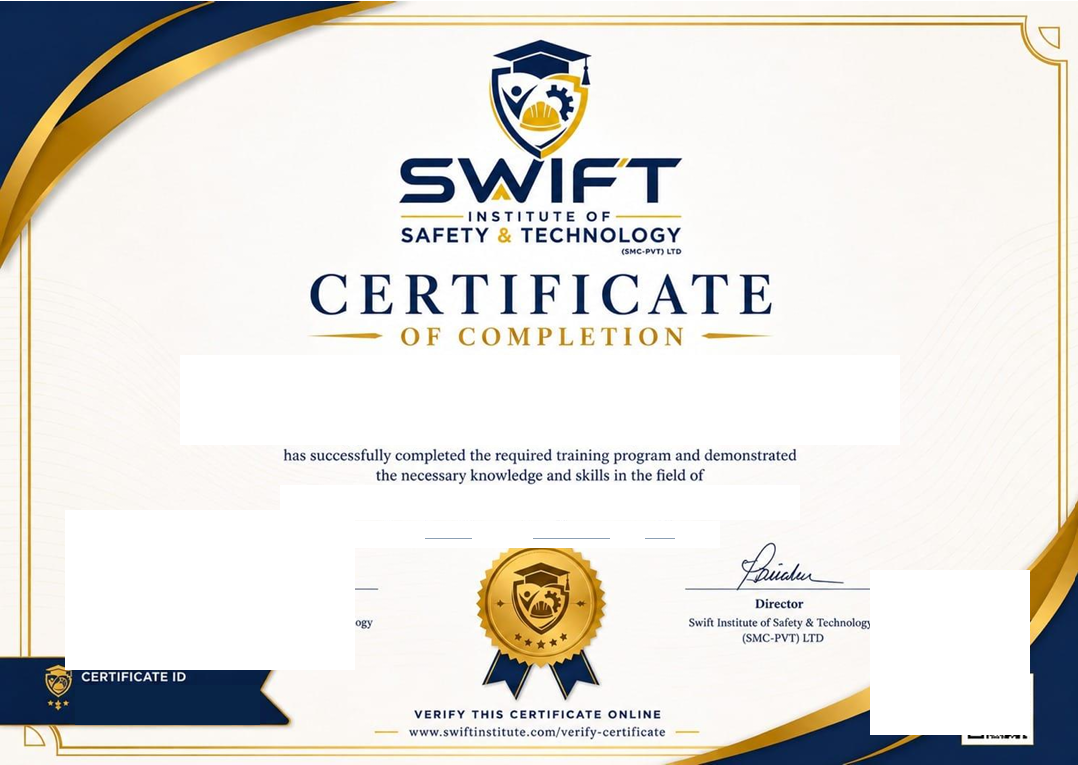
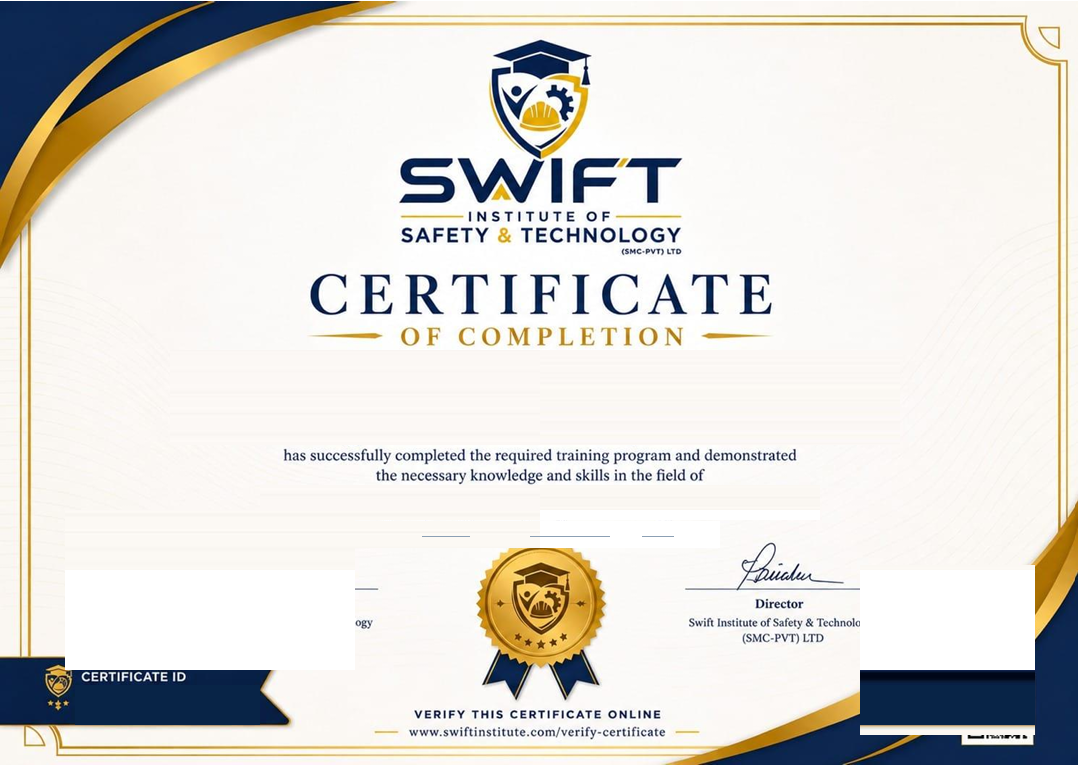
Eliminate white box backgrounds by interpolating parchment paper colors, reduce QR white container box to match QR size, fit Summary Box tightly to content, and position date text above paper baseline

Changed region(s): [[0.7959, 0.7516, 0.9796, 0.9621]]

diff --git a/client/src/pages/student/MyCertificates.jsx b/client/src/pages/student/MyCertificates.jsx
@@ -13,27 +13,27 @@ const CERT_LAYOUT = {
   baseHeight: 765,
   name: {
     left: 0.150,     // 162 / 1078
-    top: 0.482,      // 368 / 765
+    top: 0.480,      // 367 / 765
     width: 0.700,    // 754 / 1078
     height: 0.075,   // 57 / 765
   },
   course: {
     left: 0.150,     // 162 / 1078
-    top: 0.612,      // 468 / 765
+    top: 0.610,      // 467 / 765
     width: 0.700,    // 754 / 1078
     height: 0.052,   // 40 / 765
   },
   date: {
-    top: 0.688,      // 526 / 765
+    top: 0.675,      // 516 / 765 (positioned neatly ABOVE baseline line)
     height: 0.035,   // 27 / 765
-    day: { left: 0.394, width: 0.044 },    // 425px..472px (center ~448px)
-    month: { left: 0.494, width: 0.072 },  // 533px..610px (center ~571px)
-    year: { left: 0.598, width: 0.028 },   // 645px..675px (center ~660px)
+    day: { left: 0.392, width: 0.048 },    // 422px..474px (center ~448px)
+    month: { left: 0.492, width: 0.076 },  // 530px..612px (center ~571px)
+    year: { left: 0.596, width: 0.030 },   // 642px..674px (center ~658px)
   },
   summary: {
-    left: 0.082,     // 88 / 1078 (sits safely inside left gold border)
-    top: 0.685,      // 524 / 765
-    width: 0.195,    // 210 / 1078 (compact width, clear of center gold medal)
+    left: 0.082,     // 88 / 1078 (compact width, clear of left gold border)
+    top: 0.682,      // 522 / 765
+    width: 0.195,    // 210 / 1078 (tight box wrapping summary text)
     height: 0.145,   // 110 / 765
   },
   certificateId: {
@@ -43,9 +43,9 @@ const CERT_LAYOUT = {
     height: 0.042,   // 32 / 765
   },
   qr: {
-    right: 0.052,    // 56 / 1078 (small & compact inside bottom right corner)
-    bottom: 0.065,   // 50 / 765
-    width: 0.052,    // 56 / 1078 (small 56px square)
+    right: 0.058,    // 62 / 1078 (tight 64px box matching QR code size)
+    bottom: 0.072,   // 55 / 765
+    width: 0.059,    // 64 / 1078 (64px square container)
   },
 };
 
@@ -113,7 +113,7 @@ function CertificateDocument({ cert, id }) {
         @import url('https://fonts.googleapis.com/css2?family=Great+Vibes&display=swap');
       `}</style>
 
-      {/* Pristine Clean Template Image */}
+      {/* Pristine Seamless Parchment Template Image */}
       <img
         src={CERT_TEMPLATE}
         alt="Certificate template"
@@ -166,7 +166,7 @@ function CertificateDocument({ cert, id }) {
         </p>
       </div>
 
-      {/* Date Day */}
+      {/* Date Day - Positioned ABOVE baseline */}
       <div
         className="absolute text-center flex items-center justify-center bg-transparent"
         style={{
@@ -180,14 +180,14 @@ function CertificateDocument({ cert, id }) {
           className="text-[#082447] leading-none font-bold"
           style={{ 
             fontFamily: "'Great Vibes', cursive",
-            fontSize: 'clamp(8px, 1.3vw, 16px)',
+            fontSize: 'clamp(7px, 1.1vw, 13px)',
           }}
         >
           {dayText}
         </span>
       </div>
 
-      {/* Date Month */}
+      {/* Date Month - Positioned ABOVE baseline */}
       <div
         className="absolute text-center flex items-center justify-center bg-transparent"
         style={{
@@ -201,14 +201,14 @@ function CertificateDocument({ cert, id }) {
           className="text-[#082447] leading-none font-bold"
           style={{ 
             fontFamily: "'Great Vibes', cursive",
-            fontSize: 'clamp(8px, 1.3vw, 16px)',
+            fontSize: 'clamp(7px, 1.1vw, 13px)',
           }}
         >
           {monthName}
         </span>
       </div>
 
-      {/* Date Year */}
+      {/* Date Year - Positioned ABOVE baseline */}
       <div
         className="absolute text-center flex items-center justify-center bg-transparent"
         style={{
@@ -222,16 +222,16 @@ function CertificateDocument({ cert, id }) {
           className="text-[#082447] leading-none font-bold"
           style={{ 
             fontFamily: "'Great Vibes', cursive",
-            fontSize: 'clamp(8px, 1.3vw, 16px)',
+            fontSize: 'clamp(7px, 1.1vw, 13px)',
           }}
         >
           {yearShort}
         </span>
       </div>
 
-      {/* Compact Evaluation Summary Box */}
+      {/* Compact Evaluation Summary Box - Box width reduced to fit content tightly */}
       <div
-        className="absolute bg-white/95 backdrop-blur-xs border border-[#c9a227]/40 rounded-lg p-2 shadow-xs font-sans flex flex-col gap-0.5 text-[#082447]"
+        className="absolute bg-white/95 backdrop-blur-xs border border-[#c9a227]/40 rounded-xl p-2.5 shadow-xs font-sans flex flex-col gap-0.5 text-[#082447]"
         style={{
           left: `${CERT_LAYOUT.summary.left * 100}%`,
           top: `${CERT_LAYOUT.summary.top * 100}%`,
@@ -239,8 +239,8 @@ function CertificateDocument({ cert, id }) {
           height: `${CERT_LAYOUT.summary.height * 100}%`,
         }}
       >
-        <span className="text-[5px] sm:text-[8px] font-extrabold uppercase tracking-wide text-[#c9a227]">Evaluation Summary</span>
-        <div className="grid grid-cols-2 gap-x-1.5 text-[4.5px] sm:text-[7.5px] font-medium border-t border-slate-100 pt-0.5 leading-tight">
+        <span className="text-[5.5px] sm:text-[8.5px] font-extrabold uppercase tracking-wide text-[#c9a227]">Evaluation Summary</span>
+        <div className="grid grid-cols-2 gap-x-1.5 text-[5px] sm:text-[7.5px] font-medium border-t border-slate-100 pt-0.5 leading-tight">
           <span>Attendance:</span> <span className="font-bold text-right">{fields.attendanceMarks.toFixed(1)}/20</span>
           <span>Assignments:</span> <span className="font-bold text-right">{fields.assignmentMarks.toFixed(1)}/20</span>
           <span>Final MCQ:</span> <span className="font-bold text-right">{fields.mcqMarks.toFixed(1)}/60</span>
@@ -267,9 +267,9 @@ function CertificateDocument({ cert, id }) {
         </p>
       </div>
 
-      {/* Small Compact Verification QR Code */}
+      {/* Tight White Container Box around QR Code (Matching QR Code size) */}
       <div
-        className="absolute flex items-center justify-center bg-white p-0.5 rounded shadow-xs"
+        className="absolute flex items-center justify-center bg-white p-1 rounded-lg border border-slate-200/80 shadow-xs"
         style={{
           right: `${CERT_LAYOUT.qr.right * 100}%`,
           bottom: `${CERT_LAYOUT.qr.bottom * 100}%`,
@@ -350,46 +350,46 @@ export default function MyCertificates() {
       // Draw background template
       ctx.drawImage(img, 0, 0, 1078, 765);
 
-      // 1. Student Name (centered at x=539, y=415)
-      const nameFont = fields.studentName.length > 30 ? '30px' : fields.studentName.length > 20 ? '36px' : '46px';
+      // 1. Student Name (centered at x=539, y=412)
+      const nameFont = fields.studentName.length > 30 ? '30px' : fields.studentName.length > 20 ? '36px' : '44px';
       ctx.fillStyle = '#082447';
       ctx.font = `normal ${nameFont} 'Great Vibes', 'Brush Script MT', cursive`;
       ctx.textAlign = 'center';
-      ctx.fillText(fields.studentName, 539, 415, 720);
+      ctx.fillText(fields.studentName, 539, 412, 720);
 
-      // 2. Course Title (centered at x=539, y=498)
-      const courseFont = fields.courseTitle.length > 40 ? '14px' : fields.courseTitle.length > 28 ? '18px' : '22px';
+      // 2. Course Title (centered at x=539, y=496)
+      const courseFont = fields.courseTitle.length > 40 ? '14px' : fields.courseTitle.length > 28 ? '18px' : '20px';
       ctx.fillStyle = '#082447';
       ctx.font = `bold ${courseFont} Georgia, 'Times New Roman', serif`;
       ctx.textAlign = 'center';
-      ctx.fillText(fields.courseTitle.toUpperCase(), 539, 498, 760);
+      ctx.fillText(fields.courseTitle.toUpperCase(), 539, 496, 760);
 
-      // 3. Compact Date Parts
+      // 3. Compact Date Parts (positioned neatly ABOVE baseline line at y=530)
       ctx.fillStyle = '#082447';
-      ctx.font = "bold 16px 'Great Vibes', 'Brush Script MT', cursive";
+      ctx.font = "bold 13px 'Great Vibes', 'Brush Script MT', cursive";
       ctx.textAlign = 'center';
-      ctx.fillText(dayText, 448, 536);
-      ctx.fillText(monthName, 571, 536);
-      ctx.fillText(yearShort, 660, 536);
+      ctx.fillText(dayText, 448, 530);
+      ctx.fillText(monthName, 571, 530);
+      ctx.fillText(yearShort, 658, 530);
 
-      // 4. Compact Evaluation Summary Box (left: 88, top: 524, width: 210, height: 110)
+      // 4. Compact Evaluation Summary Box (left: 88, top: 522, width: 210, height: 110)
       ctx.fillStyle = 'rgba(255, 255, 255, 0.95)';
       ctx.strokeStyle = '#c9a227';
       ctx.lineWidth = 1.5;
       if (ctx.roundRect) {
         ctx.beginPath();
-        ctx.roundRect(88, 524, 210, 110, 8);
+        ctx.roundRect(88, 522, 210, 110, 8);
         ctx.fill();
         ctx.stroke();
       } else {
-        ctx.fillRect(88, 524, 210, 110);
-        ctx.strokeRect(88, 524, 210, 110);
+        ctx.fillRect(88, 522, 210, 110);
+        ctx.strokeRect(88, 522, 210, 110);
       }
 
       ctx.fillStyle = '#c9a227';
       ctx.font = 'bold 11px sans-serif';
       ctx.textAlign = 'left';
-      ctx.fillText('EVALUATION SUMMARY', 98, 543);
+      ctx.fillText('EVALUATION SUMMARY', 98, 541);
 
       ctx.fillStyle = '#082447';
       ctx.font = '10px sans-serif';
@@ -400,20 +400,20 @@ export default function MyCertificates() {
         ctx.fillText(val, 286, yOff);
       };
 
-      drawSummaryRow('Attendance:', `${fields.attendanceMarks.toFixed(1)}/20`, 561);
-      drawSummaryRow('Assignments:', `${fields.assignmentMarks.toFixed(1)}/20`, 578);
-      drawSummaryRow('Final MCQ:', `${fields.mcqMarks.toFixed(1)}/60`, 595);
+      drawSummaryRow('Attendance:', `${fields.attendanceMarks.toFixed(1)}/20`, 559);
+      drawSummaryRow('Assignments:', `${fields.assignmentMarks.toFixed(1)}/20`, 576);
+      drawSummaryRow('Final MCQ:', `${fields.mcqMarks.toFixed(1)}/60`, 593);
 
       ctx.strokeStyle = '#cbd5e1';
       ctx.lineWidth = 1;
       ctx.beginPath();
-      ctx.moveTo(98, 604);
-      ctx.lineTo(286, 604);
+      ctx.moveTo(98, 602);
+      ctx.lineTo(286, 602);
       ctx.stroke();
 
       ctx.fillStyle = '#c9a227';
       ctx.font = 'bold 11px sans-serif';
-      drawSummaryRow('Total Score:', `${fields.finalMarks.toFixed(1)} / 100`, 620);
+      drawSummaryRow('Total Score:', `${fields.finalMarks.toFixed(1)} / 100`, 618);
 
       // 5. Certificate ID (gold text directly inside blue badge)
       ctx.fillStyle = '#c9a227';
@@ -421,8 +421,8 @@ export default function MyCertificates() {
       ctx.textAlign = 'center';
       ctx.fillText(fields.certificateId, 165, 708);
 
-      // 6. Compact Dynamic QR Code (at bottom right corner x: 940, y: 635, 60x60 square)
-      const qrDataUrl = await QRCode.toDataURL(verifyUrl, { margin: 1, scale: 5 });
+      // 6. Tight White Box matching QR Code size (x: 944, y: 630, 64x64)
+      const qrDataUrl = await QRCode.toDataURL(verifyUrl, { margin: 1, scale: 6 });
       const qrImg = new Image();
       await new Promise((resolve) => {
         qrImg.onload = resolve;
@@ -432,8 +432,11 @@ export default function MyCertificates() {
 
       if (qrImg.complete && qrImg.naturalWidth > 0) {
         ctx.fillStyle = '#ffffff';
-        ctx.fillRect(940, 630, 60, 60);
-        ctx.drawImage(qrImg, 940, 630, 60, 60);
+        ctx.fillRect(944, 630, 64, 64);
+        ctx.strokeStyle = '#cbd5e1';
+        ctx.lineWidth = 1;
+        ctx.strokeRect(944, 630, 64, 64);
+        ctx.drawImage(qrImg, 946, 632, 60, 60);
       }
 
       canvas.toBlob((blob) => {
